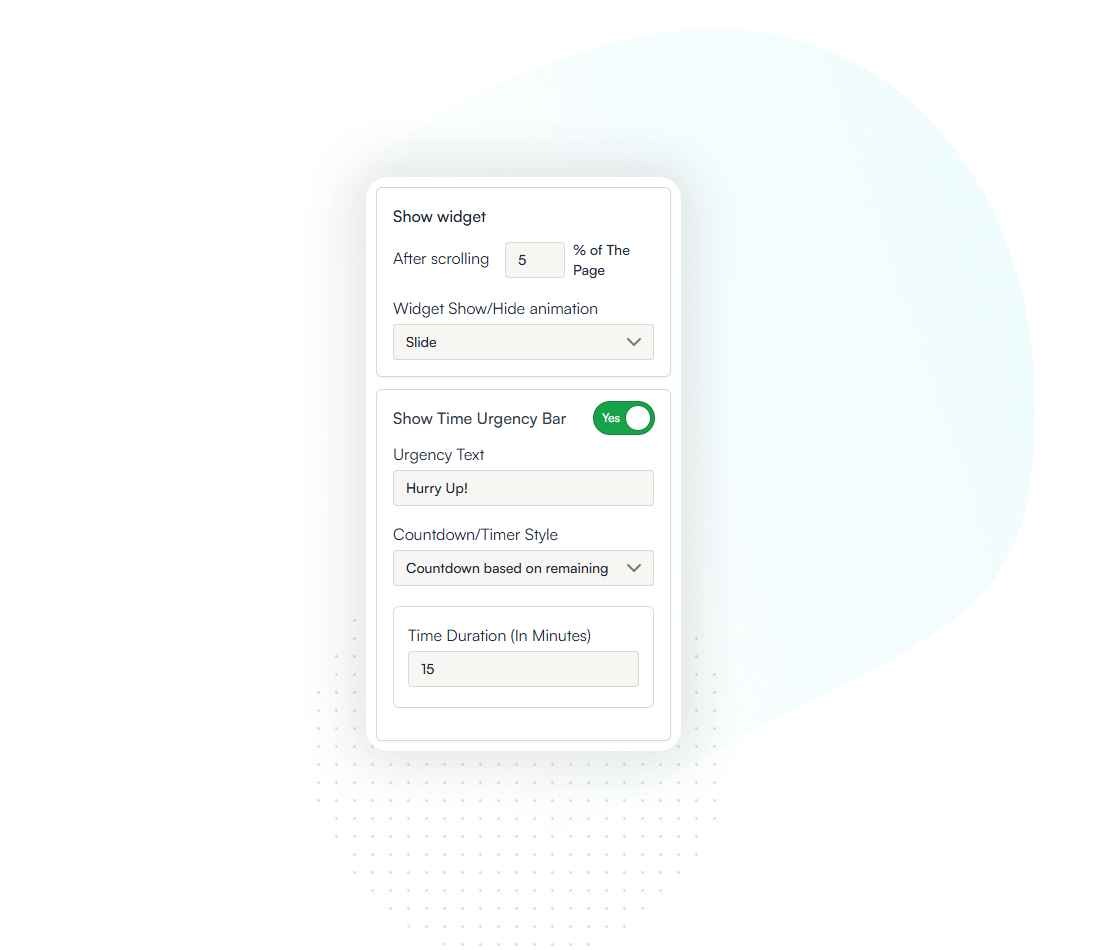
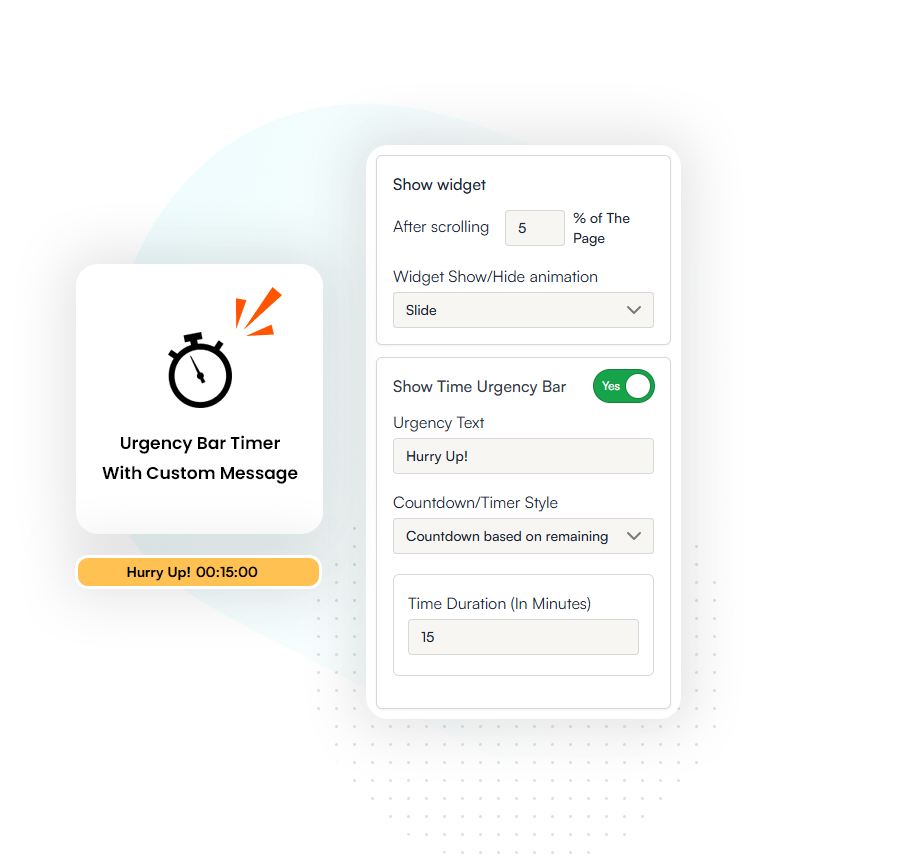
did the changes in hero & urgency section img

Changed region(s): [[0.0927, 0.1818, 0.7108, 0.7879], [0.1545, 0.2727, 0.3091, 0.3939], [0.649, 0.4242, 0.7417, 0.4848]]

diff --git a/src/pages/cartplus/cartplus.jsx b/src/pages/cartplus/cartplus.jsx
@@ -5,9 +5,17 @@ import { WebsiteLayout } from '../../components/layouts';
 export function Cartplus(props) {
     return (
         <WebsiteLayout props={props} footerVisible={false}>
-            <section className="pt-28 bg-black">
-                <div className="container w-full lg:pt-[20px] lg:pb-[420px] relative">
-                    <div className='icon-box-two block absolute md:block sm:hidden xsm:hidden w-[90px] h-[90px] shadow-[10px_20px_50px_rgba(31,36,44,0.07)] animate-[jump_4s_infinite_linear] left-[5%] top-[32%]'></div>
+            <section className="pt-28 bg-black relative ">
+                <div className="absolute left-0 max-w-full w-full top-0 z-10">
+                    <img src={`${import.meta.env.VITE_APP_URL}/assets/images/cartplus/cartplus-hero-bg.jpg`} alt="app vertix"
+                        className="w-full max-w-full" style={{ height: "1100px" }} />
+                </div>
+                <div className="container w-full lg:pt-[20px] lg:pb-[420px] relative z-20">
+                    <div class="w-[95px] h-[95px] top-[-12%] animate-[rotated_14s_infinite_linear] absolute z-[-1] rounded-[50%] left-[24%] before:w-2 before:h-2 before:content-[''] before:absolute before:rounded-[50%] before:left-2/4 before:top-0 before:bg-[#6aee90]"> </div>
+                    <div class="w-40 h-40 left-[-1%] animate-[rotatedTwo_25s_infinite_linear] absolute z-[-1] rounded-[50%] top-[28%] before:w-[17px] before:h-[17px] before:content-[''] before:absolute before:rounded-[50%] before:right-full before:top-2/4 before:bg-[#ffb15f]"> </div>
+                    <div class="w-[120px] h-[120px] bottom-[-17%] left-[-0%] animate-[rotated_15s_infinite_linear] absolute z-[-1] rounded-[50%] before:w-[7px] before:h-[7px] before:content-[''] before:absolute before:rounded-[50%] before:left-2/4 before:bottom-0 before:bg-[#ff53b3]"> </div>
+                    <div class="w-[130px] h-[130px] top-[40%] animate-[rotatedTwo_15s_infinite_linear] absolute z-[-1] rounded-[50%] -right-[10%] before:w-[13px] before:h-[13px] before:content-[''] before:absolute before:rounded-[50%] before:left-2/4 before:bottom-0 before:bg-[#a49bff]"> </div>
+                    <div class="w-[120px] h-[120px] top-[-0%] animate-[rotatedTwo_17s_infinite_linear] absolute z-[-1] rounded-[50%] right-[27%] before:w-3 before:h-3 before:content-[''] before:absolute before:rounded-[50%] before:left-2/4 before:bottom-0 before:bg-[#2eeaed]"> </div>
                     <div className="w-full mb-20">
                         <div className='max-w-[700px] mx-auto text-center relative z-10 text-white'>
                             <div className='mb-8 flex justify-center'>
@@ -33,11 +41,17 @@ export function Cartplus(props) {
                             </div>
                         </div>
                         <div className='absolute w-full left-0 right-0 max-w-[980px] mx-auto shadow-2xl rounded-4xl'>
-                            <div>
-                                <div className='absolute z-[1] bottom-[-5%] right-[-2%] w-[20.76%] animate-[jumpTwo_6s_infinite_linear] shadow-2xl rounded-[10px] xsm:right-0'>
-                                    <div className='bg-white rounded-2xl p-4 w-[310px]'>
+                            <div className='absolute z-[1] left-[-12%] w-[21.96%] animate-[jumpTwo_6s_infinite_linear] top-[6%] xsm:left-0 '><img src={`${import.meta.env.VITE_APP_URL}/assets/images/cartplus/hero-arrow2.png`} alt="Urgency Timer" />
+                                <span className='absolute -left-[25%] bottom-[2%] font-bold text-center'>
+                                    <span className='text-yellow-400 block'>Fully</span>
+                                    <span className='text-yellow-400 block'>Customizable</span>
+                                </span>
+                            </div>
+                            <div className='absolute bg-white rounded-[10px] py-4 flex justify-center shadow-2xl z-[1] left-[-12%] w-[30.96%] animate-[jumpTwo_6s_infinite_linear] bottom-[36%] xsm:left-0'><img src={`${import.meta.env.VITE_APP_URL}/assets/images/cartplus/urgency-bar-toggle.png`} alt="Urgency Timer" />
+                            </div>
+                            <div className='absolute z-[1] bottom-[-5%] right-[-2%] w-[20.76%] animate-[jumpTwo_6s_infinite_linear] shadow-2xl rounded-[10px] xsm:right-0'>
+                                <div className='bg-white rounded-2xl p-4 w-[310px]'>
                                     <img className='rounded-2xl' src={`${import.meta.env.VITE_APP_URL}/assets/images/cartplus/customize-widget-img.png`} alt="Urgency Timer" />
-                                    </div>
                                 </div>
                             </div>
                             <div className='p-10 rounded-4xl screen-holder'>
@@ -99,7 +113,7 @@ export function Cartplus(props) {
                     </div>
                 </div>
             </section>
-            <section className="py-28 bg-blue-50">
+            <section className="py-28 bg-gradient">
                 <div className="container">
                     <div className="flex items-center">
                         <div className='flex-grow'> <img src={`${import.meta.env.VITE_APP_URL}/assets/images/cartplus/sticky-add-to-cart-img1.png`} alt="app vertix" className="max-w-full" /></div>

diff --git a/src/style/app.css b/src/style/app.css
@@ -56,6 +56,30 @@
     }
   }
 
+  /* Animations */
+  
+@keyframes jump {
+  0%   {-webkit-transform: translate3d(0,0,0);transform: translate3d(0,0,0);}
+  40%  {-webkit-transform: translate3d(0,20px,0);transform: translate3d(0,20px,0);}
+  100% {-webkit-transform: translate3d(0,0,0);transform: translate3d(0,0,0);}
+}
+
+@keyframes jumpTwo {
+  0%   {-webkit-transform: translate3d(0,0,0);transform: translate3d(0,0,0);}
+  40%  {-webkit-transform: translate3d(0,-20px,0);transform: translate3d(0,-20px,0);}
+  100% {-webkit-transform: translate3d(0,0,0);transform: translate3d(0,0,0);}
+}
+
+@-webkit-keyframes rotated {
+  0%   {-webkit-transform: rotate(0);transform: rotate(0);}
+  100% {-webkit-transform: rotate(360deg);transform: rotate(360deg);}
+}
+
+@-webkit-keyframes rotatedTwo {
+  0%   {-webkit-transform: rotate(0);transform: rotate(0);}
+  100% {-webkit-transform: rotate(-360deg);transform: rotate(-360deg);}
+}
+
   .section-head-light {
 
     p,
@@ -207,15 +231,4 @@
 }
 .bg-gradient {
   background-image: linear-gradient(45deg, #FFFBF2, #EDFFFD);
-}
-@keyframes jump {
-  0%   {-webkit-transform: translate3d(0,0,0);transform: translate3d(0,0,0);}
-  40%  {-webkit-transform: translate3d(0,20px,0);transform: translate3d(0,20px,0);}
-  100% {-webkit-transform: translate3d(0,0,0);transform: translate3d(0,0,0);}
-}
-
-@keyframes jumpTwo {
-  0%   {-webkit-transform: translate3d(0,0,0);transform: translate3d(0,0,0);}
-  40%  {-webkit-transform: translate3d(0,-20px,0);transform: translate3d(0,-20px,0);}
-  100% {-webkit-transform: translate3d(0,0,0);transform: translate3d(0,0,0);}
 }
